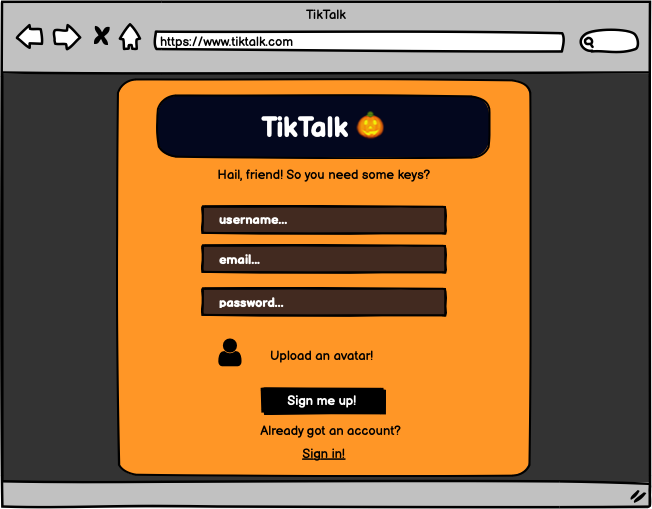
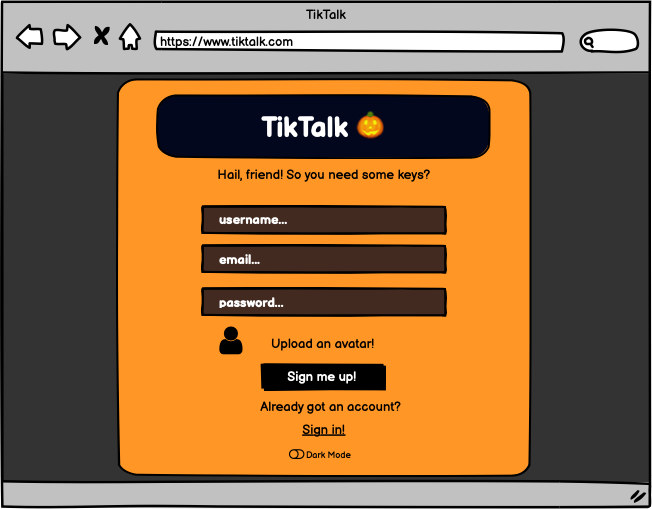
redid wireframes and readme edits for dark and light mode toggle

Changed region(s): [[0.3374, 0.6189, 0.6135, 0.9136]]

diff --git a/README.md b/README.md
@@ -192,11 +192,15 @@ This chat application will feature light and dark mode. The dark mode is a hallo
 
 - From there the user will be able to click through to the **Chat** page, which will show an individual chat or group chat.
 
+- Users can toggle light and dark mode from the bottom of the page, except on the invididual chat screen, where it would be a little impractical as it could accidentally be touched.
+
 ![R5](./docs/wireframes/Login%2C%20Sign-Up%2C%20Chats%2C%20Show%20Chat%20MOBILE%20DARKMODE.png)
 
 ### Sign Up, Login, Chats, and Show Chat Mobile (Light Mode)
 
-- All of the functionality is the same on the *mobile* view. Users will log in or sign up, then progress to their Chats and Group Chats page, then to the individual chats page. The only difference is the light mode colour scheme:
+- All of the functionality is the same on the *mobile* view. Users will log in or sign up, then progress to their Chats and Group Chats page, then to the individual chats page. The only difference is the light mode colour scheme.
+
+- Users can toggle light and dark mode from the bottom of the page, except on the invididual chat screen, where it would be a little impractical as it could accidentally be touched.
 
 ![R5](./docs/wireframes/Login%2C%20Sign-Up%2C%20Chats%2C%20Show%20Chat%20MOBILE%20LIGHTMODE.png)
 
@@ -204,29 +208,39 @@ This chat application will feature light and dark mode. The dark mode is a hallo
 
 - The pages in *tablet* view are very similar to the *mobile* pages in terms of their layouts. As is fitting for tablets, the pages have slightly more space. The users log in or sign up, then progress to their Chats page to show individual/group chats, then progress on to those chats to interact.
 
+- Users can toggle light and dark mode from the bottom of the page, except on the invididual chat screen, where it would be a little impractical as it could accidentally be touched.
+
 ![R5](./docs/wireframes/Login%2C%20Sign-Up%2CChats%2C%20Show%20Chat%20Tablet%20DARKMODE.png)
 
 ### Sign Up, Login, Chats, and Show Chat Tablet (Light Mode)
 
-- Light mode for tablet view is the same as dark mode view, except the colour scheme has changed:
+- Light mode for tablet view is the same as dark mode view, except the colour scheme has changed.
+
+- Users can toggle light and dark mode from the bottom of the page, except on the invididual chat screen, where it would be a little impractical as it could accidentally be touched.
 
 ![R5](./docs/wireframes/Login%2C%20Sign-Up%2CChats%2C%20Show%20Chat%20Tablet%20LIGHTMODE.png)
 
 ### Sign Up Page Desktop (Dark Mode)
 
-- The **Sign Up** page on *desktop* is very similar to the *mobile* and *tablet* views, just with more space. This is the darkmode theme:
+- The **Sign Up** page on *desktop* is very similar to the *mobile* and *tablet* views, just with more space. This is the darkmode theme.
+
+- Users can toggle light/dark mode from the bottom of the page.
 
 ![R5](./docs/wireframes/Sign%20Up%20Desktop%20DARKMODE%20copy.png)
 
 ### Sign Up Page Desktop (Light Mode)
 
-- The **Sign Up** page in light mode has all the same features as darkmode in *desktop*, *mobile* and *tablet* views, just a different colour scheme:
+- The **Sign Up** page in light mode has all the same features as darkmode in *desktop*, *mobile* and *tablet* views, just a different colour scheme.
+
+- Users can toggle light/dark mode from the bottom of the page.
 
 ![R5](./docs/wireframes/Sign%20Up%20Desktop%20LIGHTMODE.png)
 
 ### Log In Page Desktop (Dark Mode)
 
-- **Log In** on *desktop* is the same as *mobile* and *tablet* views, just with more space. This is darkmode:
+- **Log In** on *desktop* is the same as *mobile* and *tablet* views, just with more space. This is darkmode.
+
+- Users can toggle light/dark mode from the bottom of the page.
 
 ![R5](./docs/wireframes/Login%20Desktop%20DARKMODE.png)
 
@@ -238,7 +252,9 @@ This chat application will feature light and dark mode. The dark mode is a hallo
 
 ### Chat Page Desktop (Dark Mode)
 
-- The *desktop* variety of the application will have a cruicial difference to the *mobile* and *tablet* views. Because it has the most space, it will **not** have an individual **Chats** page. Because it has the most space, it will have the **Chats** page embedded as a sidebar on the **Chat** page. Here is darkmode:
+- The *desktop* variety of the application will have a cruicial difference to the *mobile* and *tablet* views. Because it has the most space, it will **not** have an individual **Chats** page. Because it has the most space, it will have the **Chats** page embedded as a sidebar on the **Chat** page. Here is darkmode.
+
+- Users can toggle light/dark mode from the top right corner of the page.
 
 ![R5](./docs/wireframes/Chat%20Desktop%20DARKMODE.png)
 
